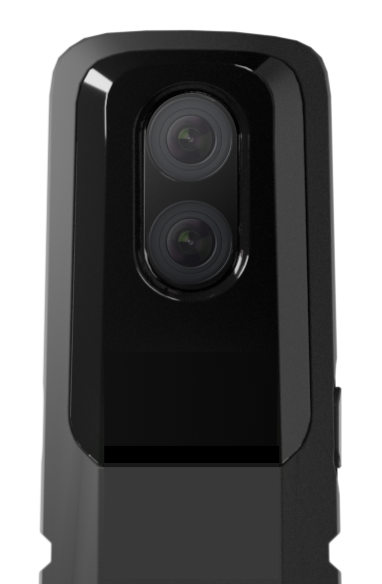
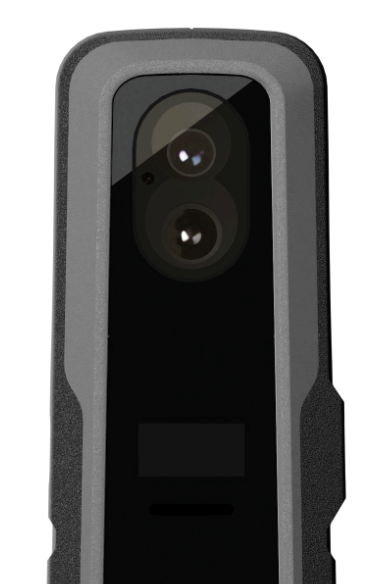
Update device images and styles

diff --git a/styles.css b/styles.css
@@ -28,7 +28,7 @@ body {
     align-items: center;
     padding-right: 2rem;
     border-right: 1px solid #eee;
-    width: 400px;
+    width: 600px;
 }
 
 .device-image {
@@ -47,12 +47,12 @@ body {
 
 .lcd-display {
     position: absolute;
-    top: 70%;
+    top: 78%;
     left: 50%;
     transform: translate(-50%, -50%) scale(1);
-    border: 1px solid #131313;
+    border: 1px solid #000000;
     transform-origin: center center;
-    background-color: #000;
+    background-color: #333333;
     box-shadow: 0 0 10px rgba(0, 0, 0, 0.5);
 }
 
@@ -173,13 +173,13 @@ body {
 
 .led-light {
     position: absolute;
-    width: 80px;
-    height: 5px;
-    border-radius: 2px;
+    width: 120px;
+    height: 12px;
+    border-radius: 5px;
     background-color: #333;
     box-shadow: 0 0 5px rgba(0, 0, 0, 0.3);
-    top: 79%;
-    right: 40%;
+    top: 86.5%;
+    right: 39.3%;
     transition: background-color 0.3s ease;
 }
 
@@ -286,12 +286,13 @@ body {
 
 .power-button {
     position: absolute;
-    width: 10px;
-    height: 80px;
+    width: 30px;
+    height: 130px;
     background-color: #000;
+    border-radius: 8px;
     opacity: 0.3;
-    bottom: 110px;
-    right: 37px;
+    bottom: 130px;
+    right: 55px;
     z-index: 2;
     transition: opacity 0.2s ease;
     cursor: pointer;
@@ -304,7 +305,7 @@ body {
 .power-arrow-indicator {
     position: absolute;
     right: 22px;
-    bottom: 146px;
+    bottom: 190px;
     width: 0;
     height: 0;
     border-top: 6px solid transparent;
